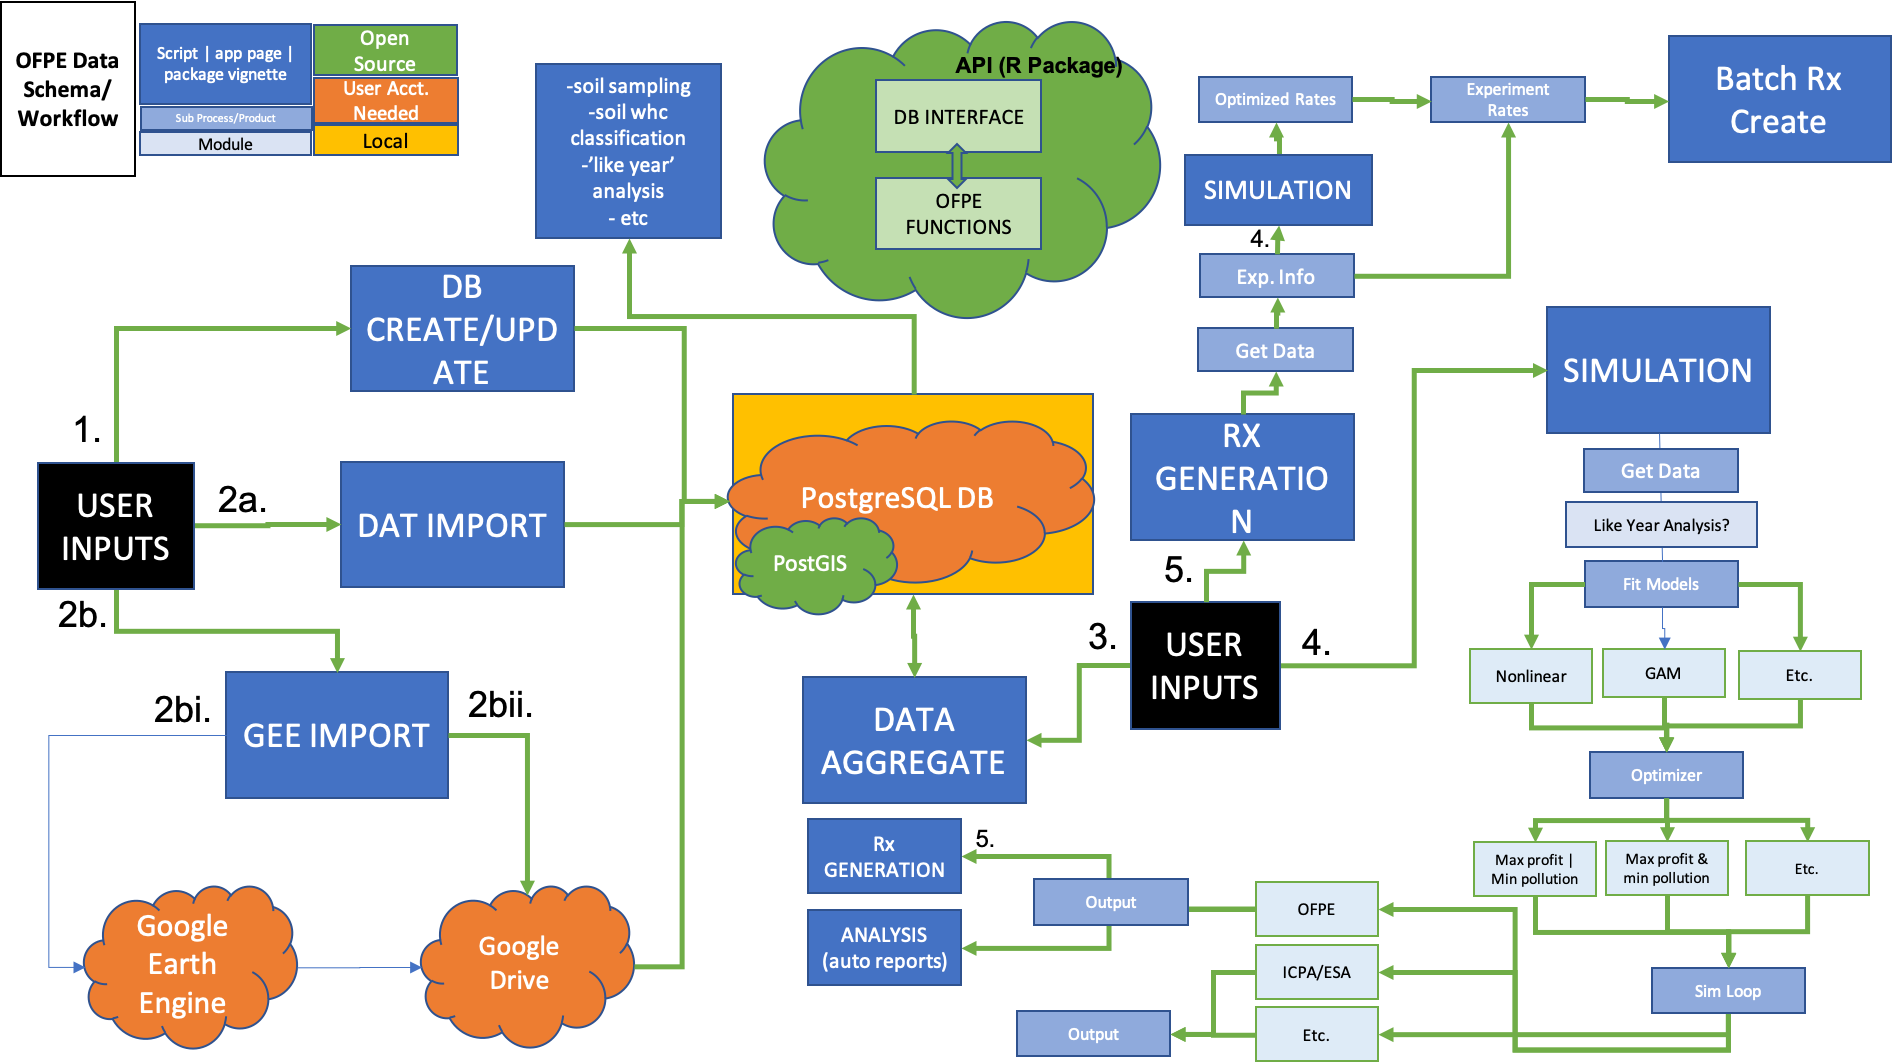
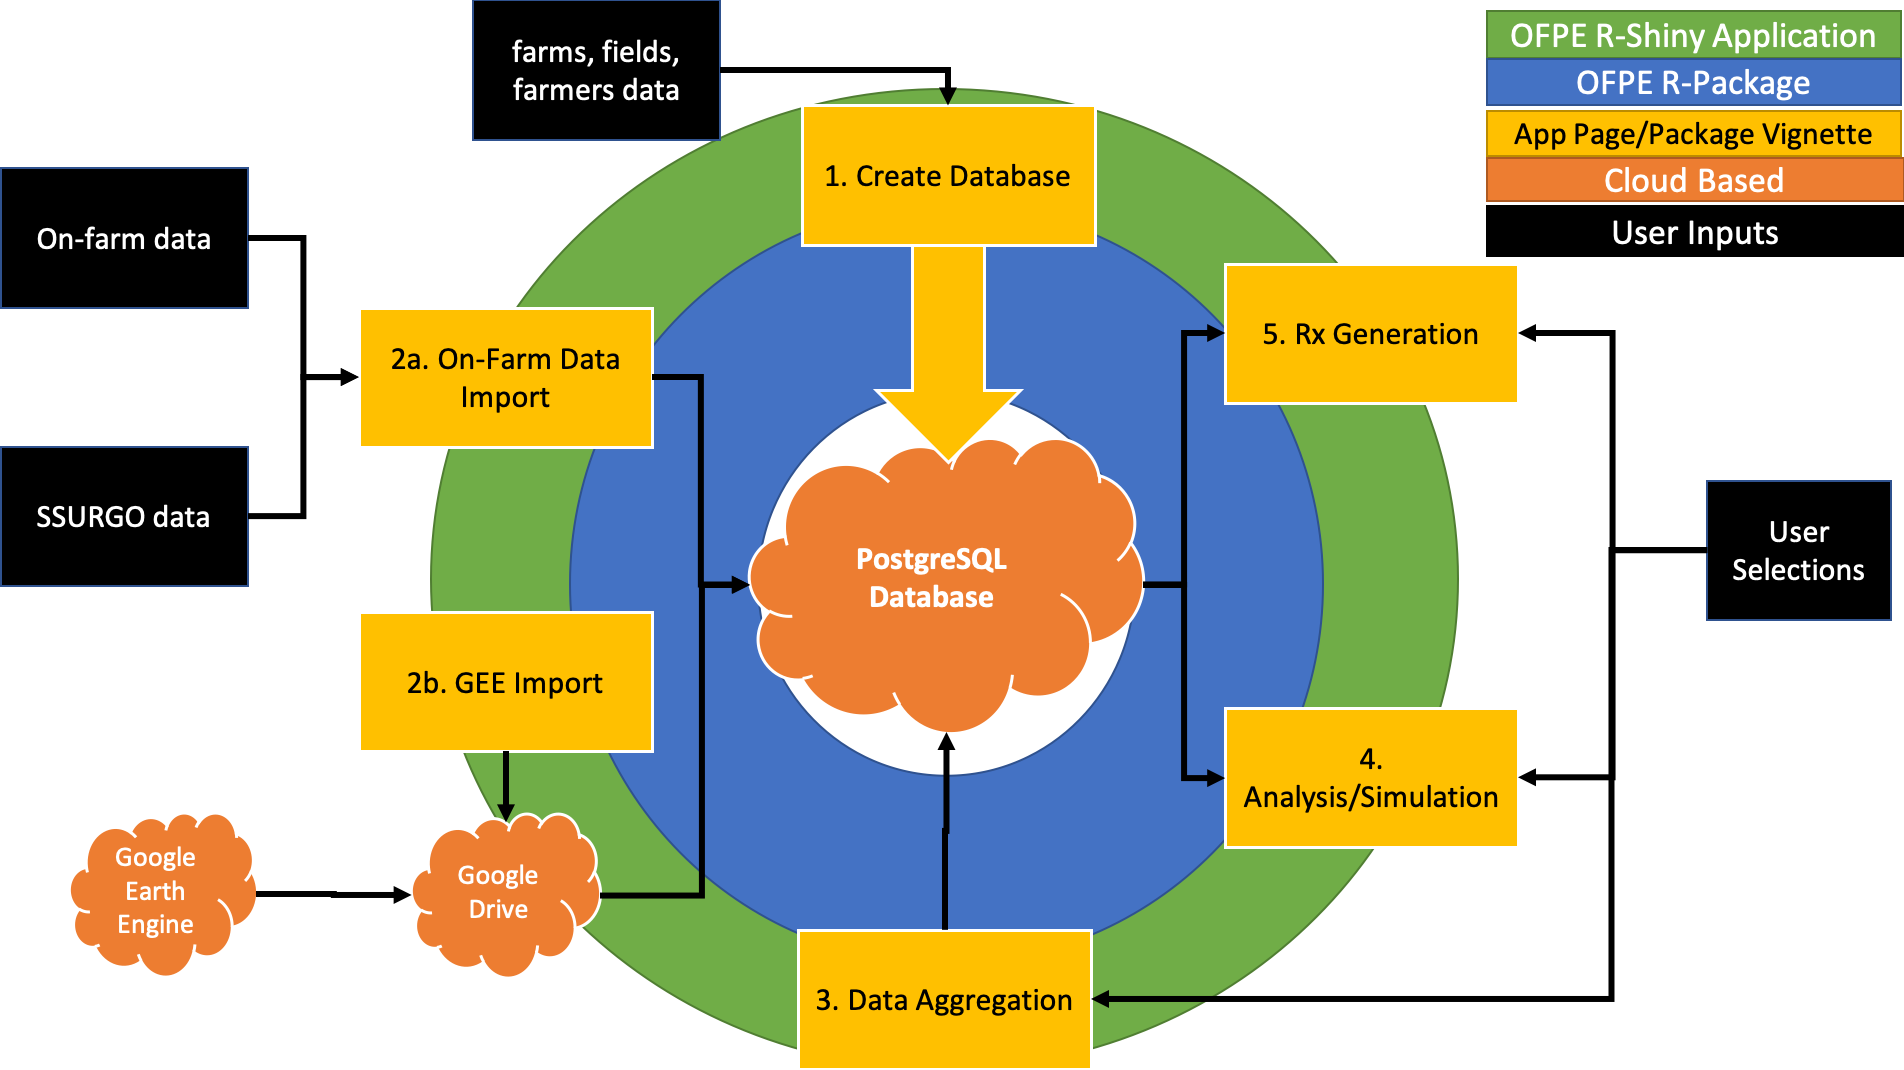
pre image update commit

diff --git a/db_creation.html b/db_creation.html
@@ -357,6 +357,10 @@ $(document).ready(function () {
 <h4>Database Schematic</h4>
 <p>The database schematic is outlined below;</p>
 <div class="figure">
+<img src="diagrams/ofpe_db_schema_intxn.png" alt="" />
+<p class="caption">OFPE database design Blue boxes represent schema names and gray boxes represent tables within each schema. The all_farms tables are “gee” = Google Earth Engine data, “grids” = 10m grids laid across file, “farms” = farm boundaries and information., “farmers” = farmer identifiaction, “fields” = experimental field boundaries and information, and “ssurgo” = SSURGO soil data. For every farmer, there is a "_r" and "_a" schema associated, for raw and aggregated data, respectively. In the raw schema there are tables for yield (“yld”), protein (“pro”), and as-applied nitrogen (“aa_n”) and seed rates (“aa_sr”). The aggregated schema contains data aggregated to the raw yield points (“yld”) or raw protein points (“pro”). Remotely sensed data from Google Earth Engine can be aggregated to the centers of the 10m grids without any on-farm data for any year satellite data is available (“sat”).</p>
+</div>
+<div class="figure">
 <img src="diagrams/ofpe_db_schema.png" alt="" />
 <p class="caption">TODO: Update figure. OFPE database schematic. Legend is in top left. Blue boxes represent schemas within the database. Orange boxes represent tables within schemas, and grey boxes are columns within each table.</p>
 </div>
@@ -367,7 +371,7 @@ $(document).ready(function () {
 <p>The process for creating a database is outlined in the activity diagram below. The user needs some field and farm boundaries to create the database, however field and farm boundaries can be added or modified later by connecting to the database and runnning the ‘Add X’ modules.</p>
 <div class="figure">
 <img src="diagrams/ofpe_db_mgmt.png" alt="" />
-<p class="caption">TODO: update figure. Blue processes are chained together by arrows, and black boxes indicate the addition of user inputs.</p>
+<p class="caption">TODO: UPDATE FIGURE. Blue processes are chained together by arrows, and black boxes indicate the addition of user inputs.</p>
 </div>
 <p>And a diagram of the components for executing the database creation and management workflow are outlined below;</p>
 <p><strong>TODO:component diagram</strong></p>

diff --git a/ofpe_overview.html b/ofpe_overview.html
@@ -359,9 +359,13 @@ $(document).ready(function () {
 </div>
 <div id="ofpe-data-schema" class="section level4">
 <h4>OFPE Data Schema</h4>
-<p>Below is a schematic of the general On-Field Precision Experiments data workflow.</p>
+<p>Below are schematics of the general On-Field Precision Experiments data workflow and a more detailed diagrma.</p>
 <div class="figure">
 <img src="diagrams/ofpe_data_workflow.png" alt="" />
+<p class="caption">Key is found in the top right corner of the schematic. The green ring represents the R-Shiny OFPE web spplication which is driven by the OFPE R-Package (blue ring). These both require connection to a PostgreSQL spatial database with PostGIS enabled. The yellow boxes represent different pages of the OFPE web application and vignettes in the R-package. Black boxes represent user inputs and orange clouds represent cloud based tools.</p>
+</div>
+<div class="figure">
+<img src="diagrams/ofpe_data_diagram.png" alt="" />
 <p class="caption">Key is found in the top left corner of the schematic. Green arrows represent processes that require the OFPE package. The PostgreSQL database in the center of the figure can be stored on a cloud server or a local computer (as indicated by shape). Dark blue boxes indicate processes that are vignettes of the OFPE package or pages of the OFPE Web Application. Light blue boxes represent alternate modules for executable processes.</p>
 </div>
 </div>
